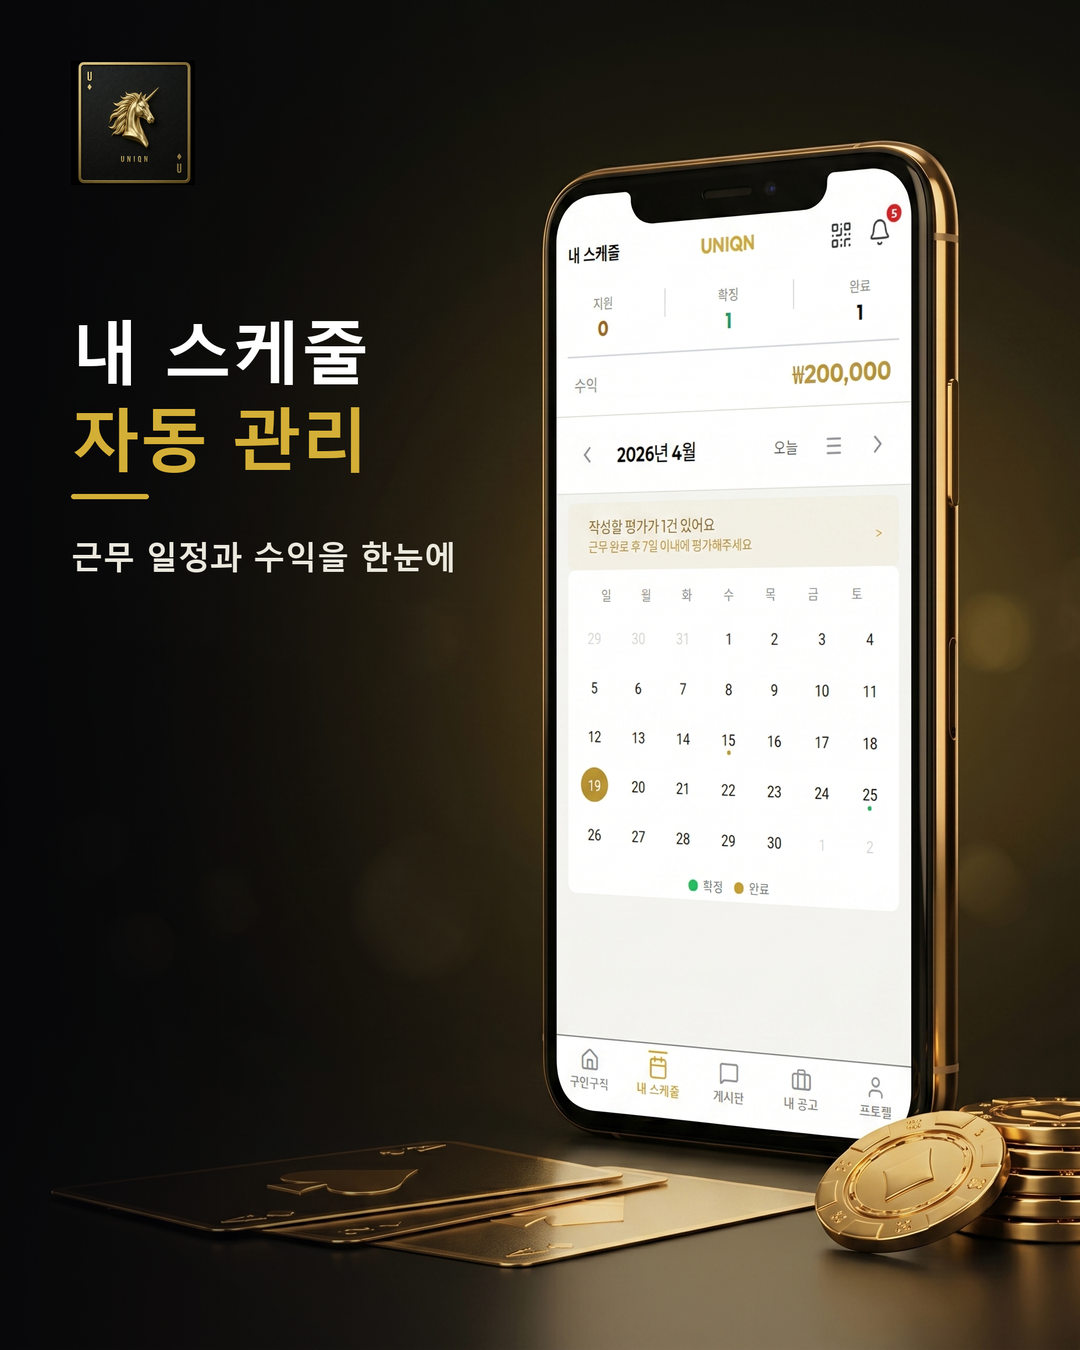
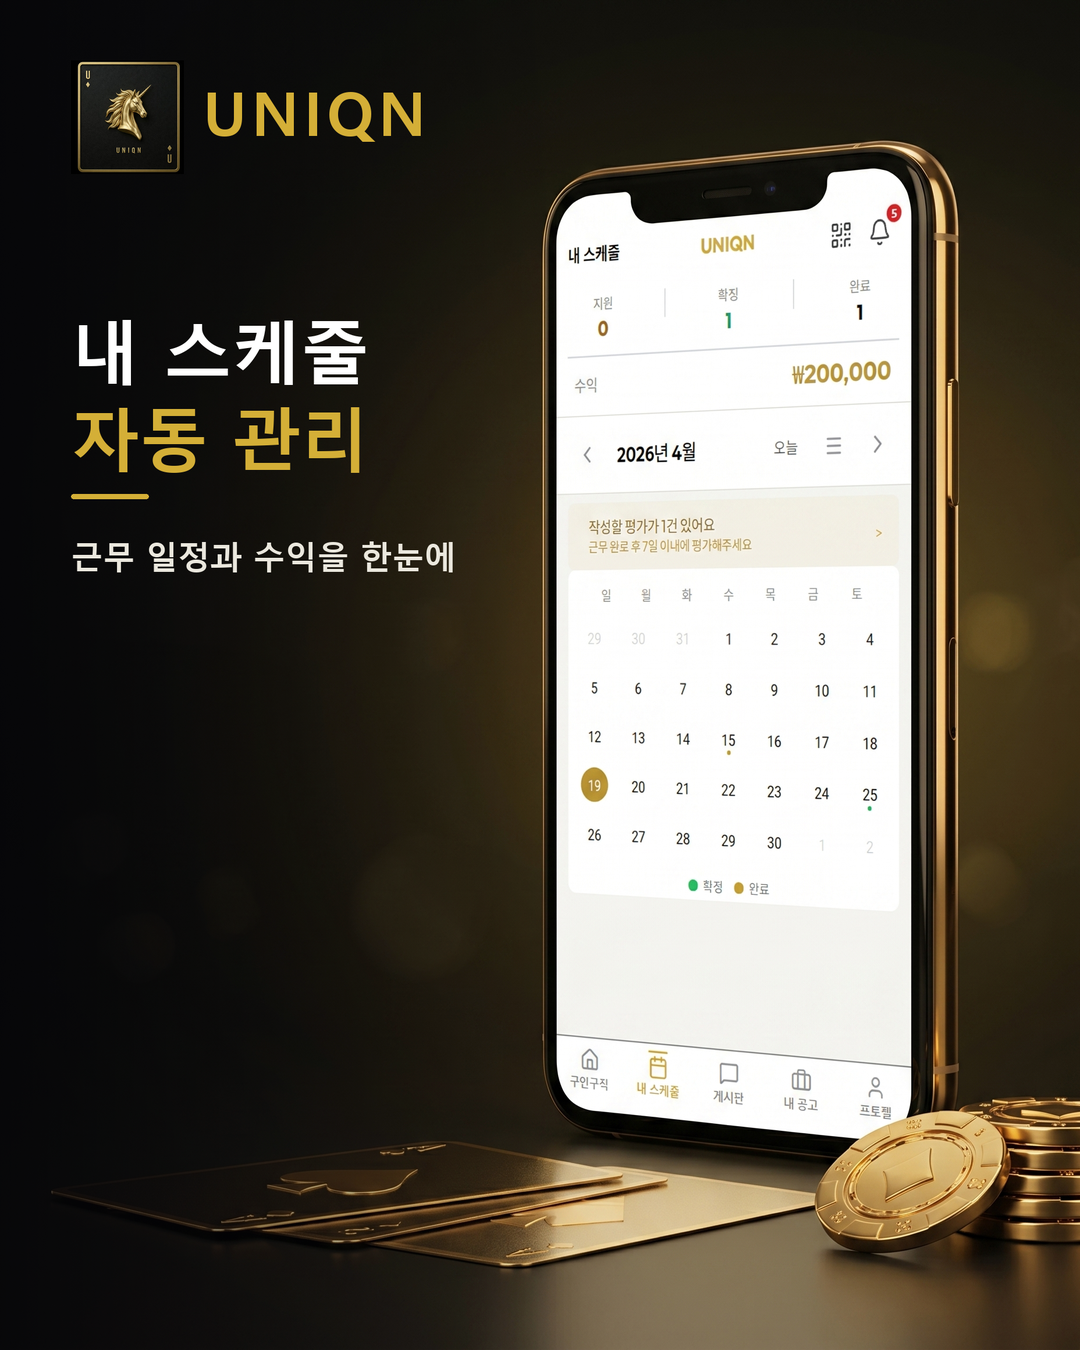
feat(marketing): 로고 옆 UNIQN 워드마크 추가 + 폰화면=로고 스플래시 버전
- 모든 컷(히어로/캐러셀)에 유니콘 엠블럼 + UNIQN 워드마크 로고 락업
- appcomp-splash.png: 폰 화면에 UNIQN 로고 풀스크린(스플래시/브랜드 컷), base-splash nano_banana_2 생성
- compose_overlay.py 인자화(base/final), compose_carousel.py 워드마크

Changed region(s): [[0.0611, 0.0311, 0.3972, 0.1556]]

diff --git a/marketing/uniqn-campaign/sample-01/compose_overlay.py b/marketing/uniqn-campaign/sample-01/compose_overlay.py
@@ -1,12 +1,16 @@
 # -*- coding: utf-8 -*-
 """UNIQN 좌우 스플릿 마케팅 컷 — base2(폰 우측) 위에 한글 카피/아이콘/스토어 뱃지 오버레이."""
 import os
+import sys
 from PIL import Image, ImageDraw, ImageFont
 
 HERE = os.path.dirname(os.path.abspath(__file__))
-BASE = os.path.join(HERE, "appcomp-base2.png")
-FINAL = os.path.join(HERE, "appcomp-final.png")
-FINAL_HI = os.path.join(HERE, "appcomp-final-hi.png")
+# 인자: [base_filename] [final_filename]  (기본 = base2 / appcomp-final)
+_base = sys.argv[1] if len(sys.argv) > 1 else "appcomp-base2.png"
+_final = sys.argv[2] if len(sys.argv) > 2 else "appcomp-final.png"
+BASE = os.path.join(HERE, _base)
+FINAL = os.path.join(HERE, _final)
+FINAL_HI = os.path.join(HERE, _final.replace(".png", "-hi.png"))
 APPLE = os.path.join(HERE, "assets", "apple-app-store.png")
 GOOGLE = os.path.join(HERE, "assets", "google-play-badge.png")
 LOGO = os.path.join(HERE, "assets", "uniqn-logo.png")
@@ -42,11 +46,16 @@ def draw_spaced(d, pos, text, font, fill, spacing):
 
 LX = int(W * 0.066)
 
-# 2) 브랜드 로고 (실제 유니콘 로고)
+# 2) 브랜드 로고 (유니콘 엠블럼 + UNIQN 워드마크)
 _logo = Image.open(LOGO).convert("RGBA")
 _lh = int(W * 0.090)
 _lw = int(_logo.width * _lh / _logo.height)
-base.alpha_composite(_logo.resize((_lw, _lh), Image.LANCZOS), (LX, int(H * 0.040)))
+_ly = int(H * 0.040)
+base.alpha_composite(_logo.resize((_lw, _lh), Image.LANCZOS), (LX, _ly))
+_wm = bold(int(W * 0.050))
+_bb = _wm.getbbox("UNIQN")
+draw_spaced(draw, (LX + _lw + int(W * 0.018), _ly + (_lh - (_bb[3] - _bb[1])) // 2 - _bb[1]),
+            "UNIQN", _wm, GOLD, 8)
 
 # 3) 헤드라인 (정산 = 골드)
 hl = bold(int(W * 0.050))

diff --git a/marketing/uniqn-campaign/sample-01/compose_carousel.py b/marketing/uniqn-campaign/sample-01/compose_carousel.py
@@ -28,11 +28,19 @@ def render(base_name, out_name, l1, l2, sub):
     draw = ImageDraw.Draw(base)
     LX = int(W * 0.066)
 
-    # 로고 (좌상단)
+    # 로고 (유니콘 엠블럼 + UNIQN 워드마크)
     logo = Image.open(LOGO).convert("RGBA")
-    lh = int(W * 0.115)
+    lh = int(W * 0.105)
     lw = int(logo.width * lh / logo.height)
-    base.alpha_composite(logo.resize((lw, lh), Image.LANCZOS), (LX, int(H * 0.045)))
+    ly = int(H * 0.045)
+    base.alpha_composite(logo.resize((lw, lh), Image.LANCZOS), (LX, ly))
+    wm = bold(int(W * 0.056))
+    wbb = wm.getbbox("UNIQN")
+    x0 = LX + lw + int(W * 0.018)
+    yy = ly + (lh - (wbb[3] - wbb[1])) // 2 - wbb[1]
+    for ch in "UNIQN":
+        draw.text((x0, yy), ch, font=wm, fill=GOLD)
+        x0 += draw.textlength(ch, font=wm) + 8
 
     # 헤드라인 2줄
     hl = bold(int(W * 0.064))
